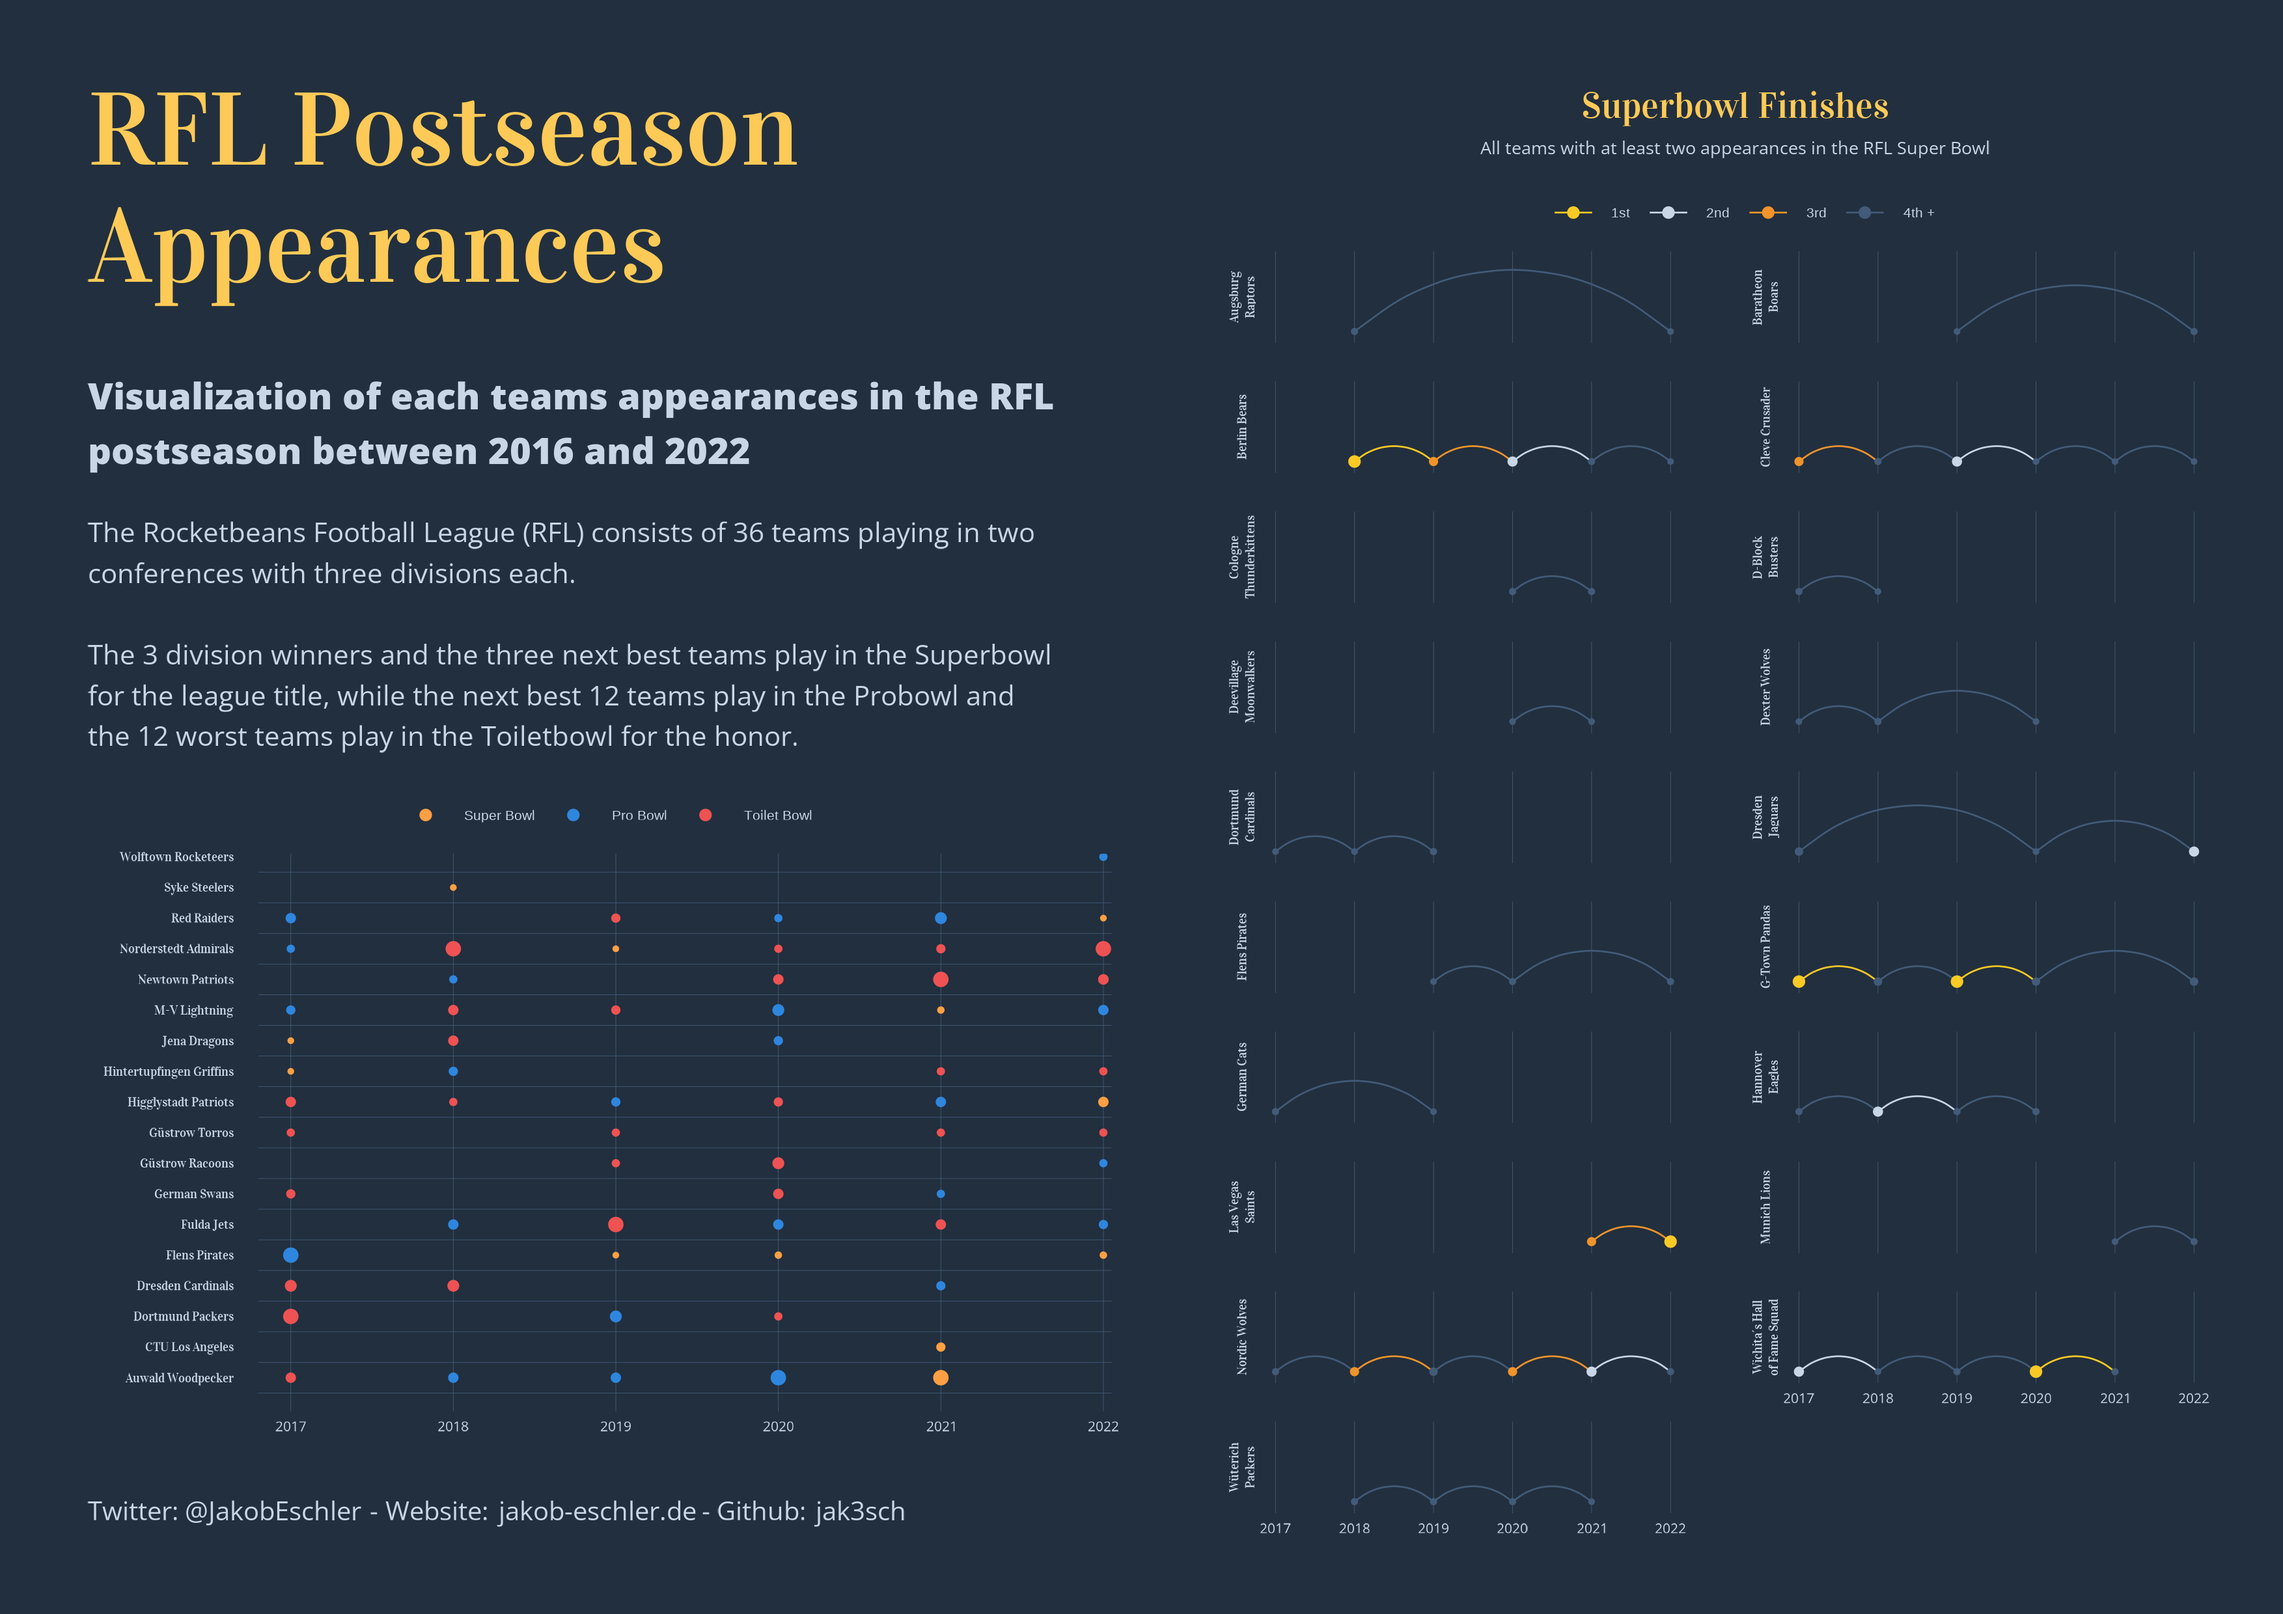
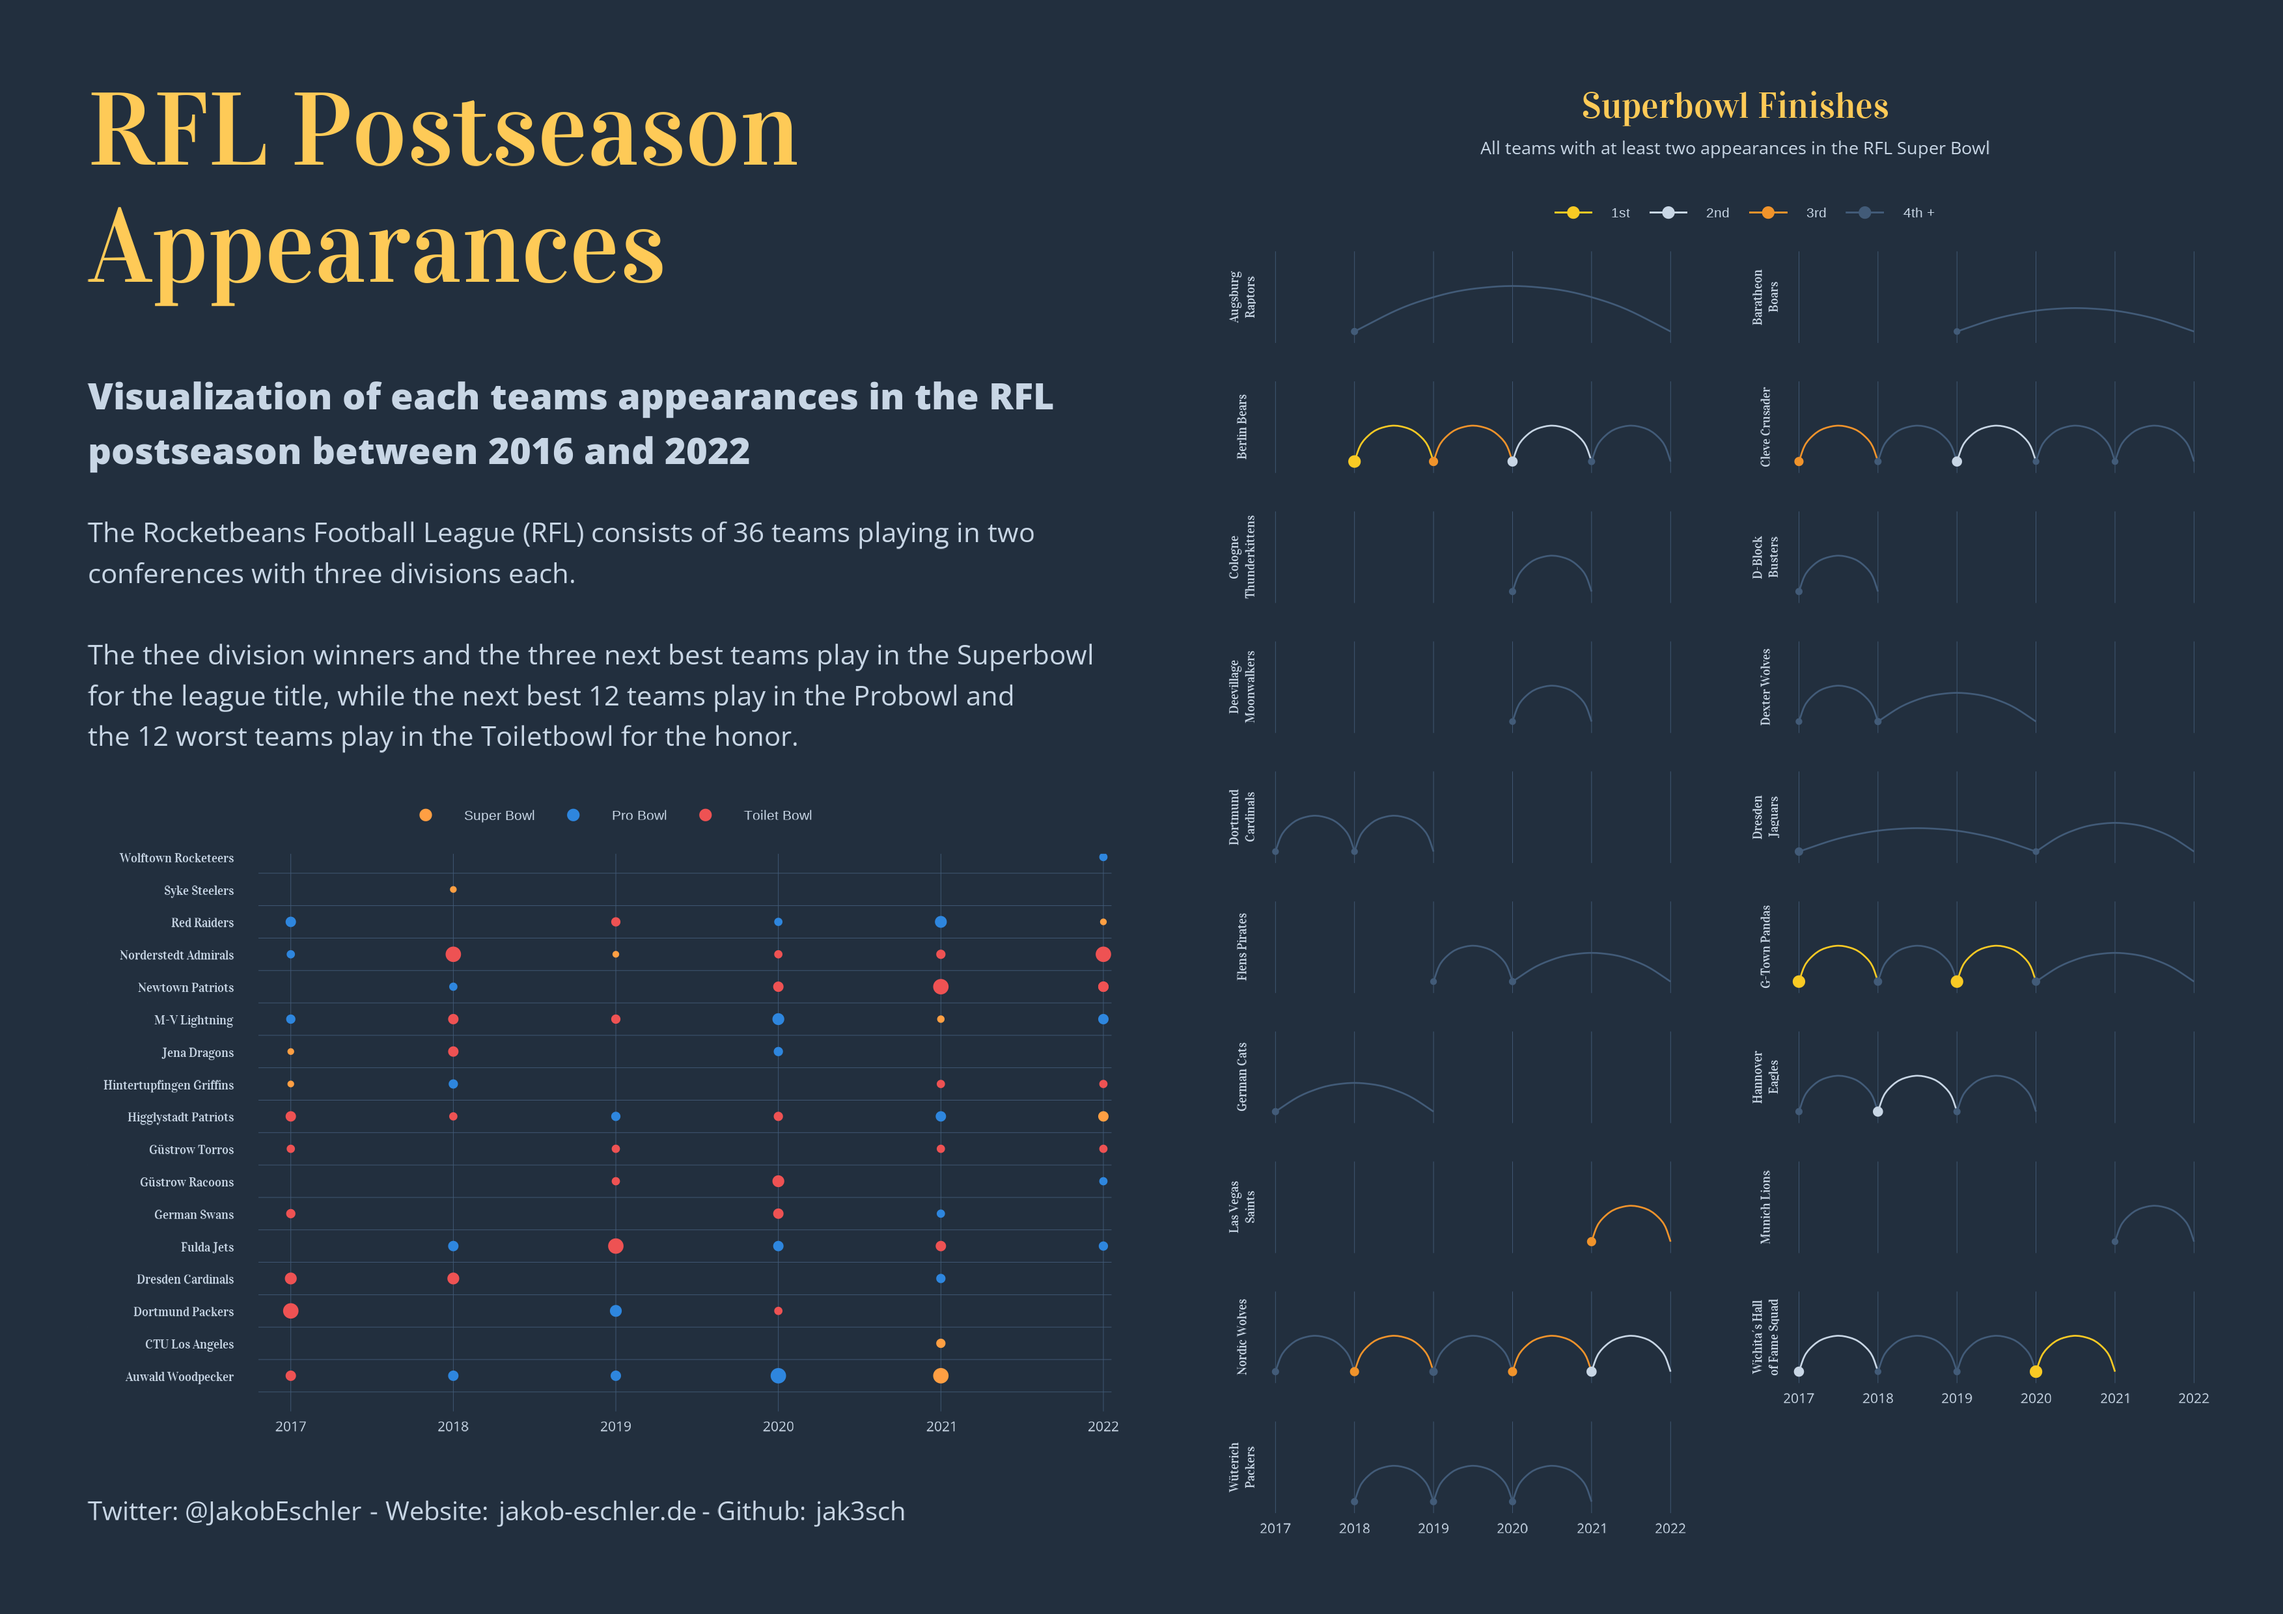
added dynamic arcs for geom_curve

diff --git a/reports/season-review/output/plots/playoff-appearances/README.md b/reports/season-review/output/plots/playoff-appearances/README.md
@@ -1,5 +1,7 @@
 # RFL Postseason Appearances
 
+Recently I came across this [beautiful chart](https://www.informationisbeautifulawards.com/showcase/3310-a-history-of-the-fifa-world-cup) and thought, it would be a great inspirataion for my fantasy football league report.
+
 ## Visualization of each teams appearances in the RFL postseason between 2016 and 2022
 
 The Rocketbeans Football League (RFL) consists of 36 teams playing in two conferences with three divisions each.
